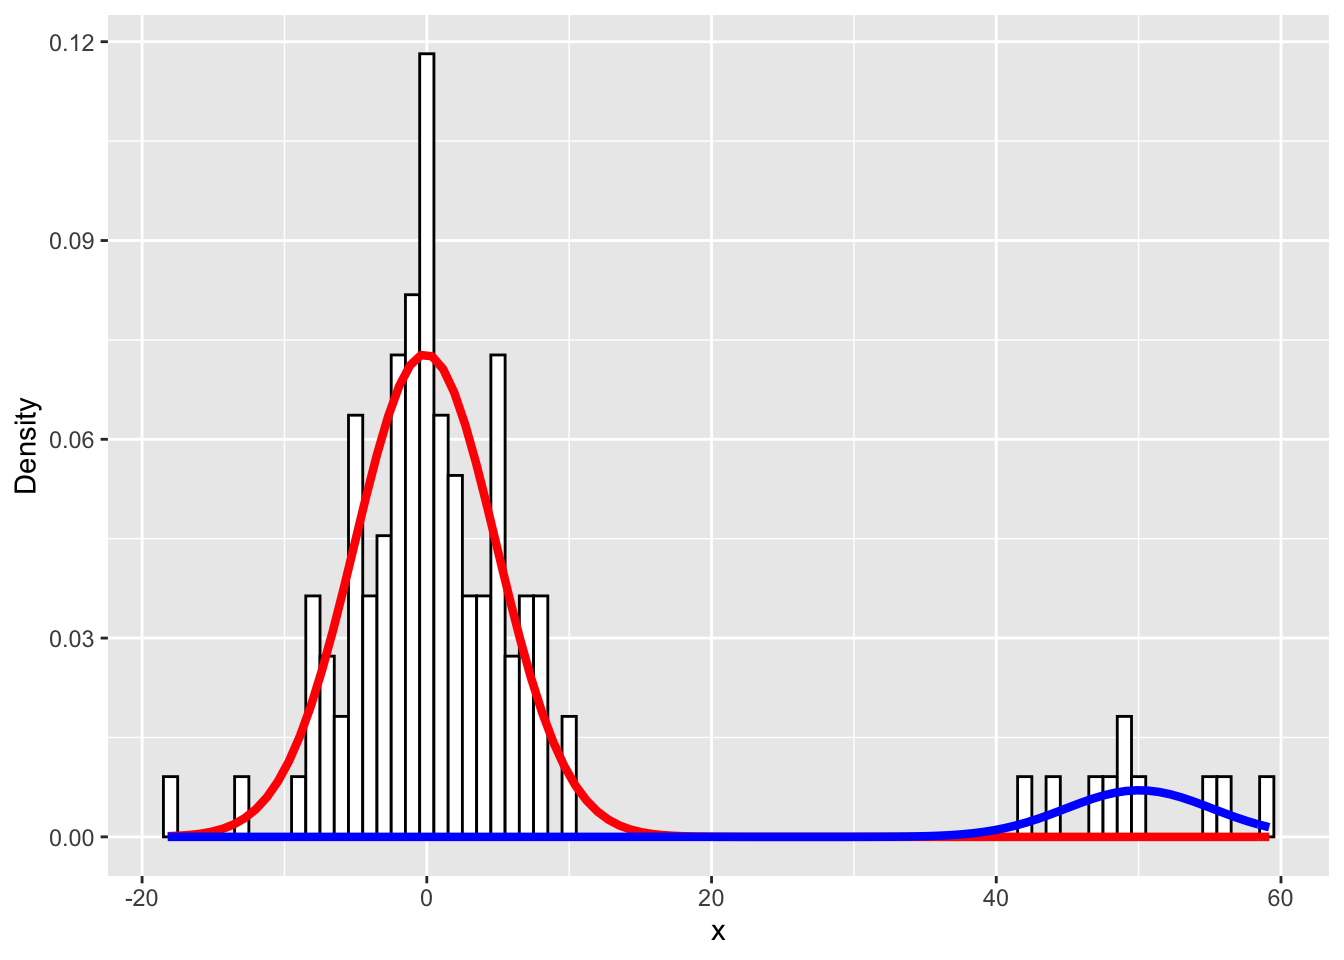
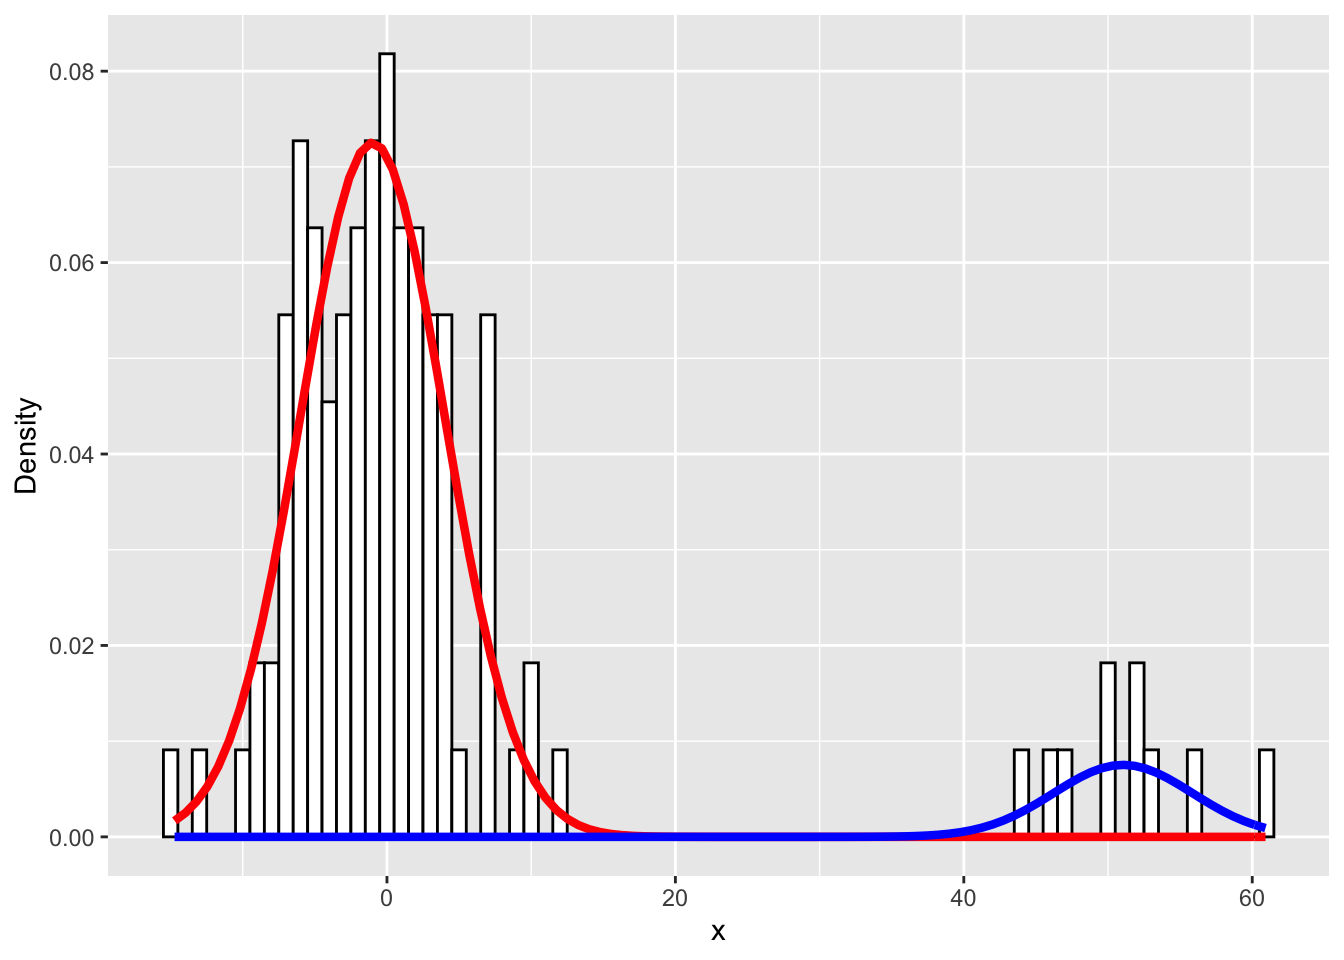
update post

diff --git a/content/cn/post/2019-09-06-flexmix-model.html b/content/cn/post/2019-09-06-flexmix-model.html
@@ -2,7 +2,7 @@
 title: "使用有限混合模型"
 author: "王诗翔"
 date: "2019-09-06"
-lastmod: "2019-09-16"
+lastmod: "2019-09-17"
 slug: ""
 categories: r
 tags:
@@ -58,33 +58,33 @@ flexfit &lt;- flexmix(x ~ 1, data = data, k = 2, model = list(mo1, mo2))</code><
 <h2>查看结果</h2>
 <pre class="r"><code>parameters(flexfit)
 #&gt; [[1]]
-#&gt;                  Comp.1  Comp.2
-#&gt; coef.(Intercept)  50.03 -0.0989
-#&gt; sigma              5.16  4.9787
+#&gt;                  Comp.1 Comp.2
+#&gt; coef.(Intercept)  51.04     -1
+#&gt; sigma              4.82      5
 #&gt; 
 #&gt; [[2]]
-#&gt;                  Comp.1  Comp.2
-#&gt; coef.(Intercept)  50.03 -0.0989
-#&gt; sigma              5.16  4.9787</code></pre>
+#&gt;                  Comp.1 Comp.2
+#&gt; coef.(Intercept)  51.04     -1
+#&gt; sigma              4.82      5</code></pre>
 <p>输出参数：</p>
 <pre class="r"><code>c1 &lt;- parameters(flexfit, component=2)[[1]]
 c2 &lt;- parameters(flexfit, component=1)[[1]]
 
 cat(&#39;pred:&#39;, c1[1], &#39;\n&#39;)
-#&gt; pred: -0.0989
+#&gt; pred: -1
 cat(&#39;true:&#39;, m1, &#39;\n\n&#39;)
 #&gt; true: 0
 cat(&#39;pred:&#39;, c1[2], &#39;\n&#39;)
-#&gt; pred: 4.98
+#&gt; pred: 5
 cat(&#39;true:&#39;, sd1, &#39;\n\n&#39;)
 #&gt; true: 5
 
 cat(&#39;pred:&#39;, c2[1], &#39;\n&#39;)
-#&gt; pred: 50
+#&gt; pred: 51
 cat(&#39;true:&#39;, m2, &#39;\n\n&#39;)
 #&gt; true: 50
 cat(&#39;pred:&#39;, c2[2], &#39;\n&#39;)
-#&gt; pred: 5.16
+#&gt; pred: 4.82
 cat(&#39;true:&#39;, sd2, &#39;\n\n&#39;)
 #&gt; true: 5</code></pre>
 <p>基本能拟合出原始分布。</p>
@@ -124,18 +124,18 @@ ylab(&quot;Density&quot;)</code></pre>
 #&gt;     k = 1:5)
 #&gt; 
 #&gt;   iter converged k k0 logLik AIC BIC ICL
-#&gt; 1    2      TRUE 1  1   -456 915 921 921
-#&gt; 2   15      TRUE 2  2   -366 742 756 756
-#&gt; 3  119      TRUE 2  3   -366 742 756 756
-#&gt; 4   51      TRUE 3  4   -366 748 770 827
-#&gt; 5  132      TRUE 2  5   -366 742 756 756</code></pre>
+#&gt; 1    2      TRUE 1  1   -459 923 928 928
+#&gt; 2   12      TRUE 2  2   -366 742 755 755
+#&gt; 3   55      TRUE 3  3   -366 747 769 864
+#&gt; 4   38      TRUE 4  4   -366 753 783 906
+#&gt; 5  200     FALSE 4  5   -365 753 783 915</code></pre>
 <p>根据 BIC 选择一个最佳的模型：</p>
 <pre class="r"><code>fitBest = getModel(flexfit, which = &quot;BIC&quot;)
 str(fitBest, max.level = 2)
 #&gt; Formal class &#39;flexmix&#39; [package &quot;flexmix&quot;] with 18 slots
 #&gt;   ..@ posterior  :List of 2
 #&gt;   ..@ weights    : NULL
-#&gt;   ..@ iter       : int 15
+#&gt;   ..@ iter       : int 12
 #&gt;   ..@ cluster    : int [1:110] 1 1 1 1 1 1 1 1 1 1 ...
 #&gt;   ..@ logLik     : num -366
 #&gt;   ..@ df         : num 5
@@ -155,9 +155,9 @@ str(fitBest, max.level = 2)
 #&gt;   ..@ k          : int 2</code></pre>
 <p>查看参数：</p>
 <pre class="r"><code>parameters(fitBest)
-#&gt;                   Comp.1 Comp.2
-#&gt; coef.(Intercept) -0.0989  50.03
-#&gt; sigma             4.9787   5.16</code></pre>
+#&gt;                  Comp.1 Comp.2
+#&gt; coef.(Intercept)     -1  51.04
+#&gt; sigma                 5   4.82</code></pre>
 <p>这个我们的输入非常接近，但也存在一个不小的误差：</p>
 <pre class="r"><code>print(paste(m1, sd1))  
 #&gt; [1] &quot;0 5&quot;
@@ -172,14 +172,14 @@ print(paste(m2, sd2))
 
 fit1 &lt;- flexmix(x ~ 1, data = data, k = 2, model = FLXMRglm(family = &quot;gaussian&quot;))
 parameters(fit1)
-#&gt;                  Comp.1  Comp.2
-#&gt; coef.(Intercept)  50.03 -0.0989
-#&gt; sigma              5.16  4.9787</code></pre>
+#&gt;                  Comp.1 Comp.2
+#&gt; coef.(Intercept)  51.04     -1
+#&gt; sigma              4.82      5</code></pre>
 <pre class="r"><code>fit2 &lt;- flexmix(x ~ 1, data = data, k = 2, model = FLXMCnorm1())
 parameters(fit2)
-#&gt;      Comp.1  Comp.2
-#&gt; mean  50.03 -0.0989
-#&gt; sd     5.41  4.9810</code></pre>
+#&gt;      Comp.1 Comp.2
+#&gt; mean  51.04     -1
+#&gt; sd     5.06      5</code></pre>
 <p>使用泊松分布来拟合试试，先生成泊松分布数据：</p>
 <pre class="r"><code>N1 &lt;- 100
 N2 &lt;- 10
@@ -200,6 +200,10 @@ parameters(fit4)
 #&gt;                    3.88                  -28.67</code></pre>
 <p><strong><code>FLXMCmvpois()</code> 显示的是 demo driver，但却比 <code>FLXMRglm(family = &quot;poisson&quot;)</code> 结果准确的多！！</strong></p>
 <p>不能理解这个包的哲学，尽管它看起来是那么的优秀~</p>
+<blockquote>
+<p>更新：2019-09-17</p>
+<p>发现 flexmix 提供的功能大体分为两类，以 FLXMC 开头的是做聚类的，而以 FLXMR 开头的是做回归的。</p>
+</blockquote>
 </div>
 <div class="section level2">
 <h2>能否重复分析？</h2>
@@ -225,9 +229,9 @@ stepfit = stepFlexmix(x ~ 1, data = data, k = 1:5, model = FLXMCmvpois())
 #&gt; 5 : * * *
 fit = getModel(flexfit, which = &quot;BIC&quot;)
 parameters(fit)
-#&gt;                   Comp.1 Comp.2
-#&gt; coef.(Intercept) -0.0989  50.03
-#&gt; sigma             4.9787   5.16</code></pre>
+#&gt;                  Comp.1 Comp.2
+#&gt; coef.(Intercept)     -1  51.04
+#&gt; sigma                 5   4.82</code></pre>
 <pre class="r"><code>set.seed(1234)
 stepfit = stepFlexmix(x ~ 1, data = data, k = 1:5, model = FLXMCmvpois())
 #&gt; 1 : * * *
@@ -237,9 +241,9 @@ stepfit = stepFlexmix(x ~ 1, data = data, k = 1:5, model = FLXMCmvpois())
 #&gt; 5 : * * *
 fit = getModel(flexfit, which = &quot;BIC&quot;)
 parameters(fit)
-#&gt;                   Comp.1 Comp.2
-#&gt; coef.(Intercept) -0.0989  50.03
-#&gt; sigma             4.9787   5.16</code></pre>
+#&gt;                  Comp.1 Comp.2
+#&gt; coef.(Intercept)     -1  51.04
+#&gt; sigma                 5   4.82</code></pre>
 <p>结果显示一致</p>
 <blockquote>
 <p>本文前半部分示例来自《<a href="https://jef.works/blog/2017/08/05/a-practical-introduction-to-finite-mixture-models/">A Practical Introduction To Finite Mixture Models</a>》</p>

diff --git a/docs/cn/post/2019-09-06-flexmix-model/index.html b/docs/cn/post/2019-09-06-flexmix-model/index.html
@@ -176,33 +176,33 @@ flexfit &lt;- flexmix(x ~ 1, data = data, k = 2, model = list(mo1, mo2))</code><
 <h2>查看结果</h2>
 <pre class="r"><code>parameters(flexfit)
 #&gt; [[1]]
-#&gt;                  Comp.1  Comp.2
-#&gt; coef.(Intercept)  50.03 -0.0989
-#&gt; sigma              5.16  4.9787
+#&gt;                  Comp.1 Comp.2
+#&gt; coef.(Intercept)  51.04     -1
+#&gt; sigma              4.82      5
 #&gt; 
 #&gt; [[2]]
-#&gt;                  Comp.1  Comp.2
-#&gt; coef.(Intercept)  50.03 -0.0989
-#&gt; sigma              5.16  4.9787</code></pre>
+#&gt;                  Comp.1 Comp.2
+#&gt; coef.(Intercept)  51.04     -1
+#&gt; sigma              4.82      5</code></pre>
 <p>输出参数：</p>
 <pre class="r"><code>c1 &lt;- parameters(flexfit, component=2)[[1]]
 c2 &lt;- parameters(flexfit, component=1)[[1]]
 
 cat(&#39;pred:&#39;, c1[1], &#39;\n&#39;)
-#&gt; pred: -0.0989
+#&gt; pred: -1
 cat(&#39;true:&#39;, m1, &#39;\n\n&#39;)
 #&gt; true: 0
 cat(&#39;pred:&#39;, c1[2], &#39;\n&#39;)
-#&gt; pred: 4.98
+#&gt; pred: 5
 cat(&#39;true:&#39;, sd1, &#39;\n\n&#39;)
 #&gt; true: 5
 
 cat(&#39;pred:&#39;, c2[1], &#39;\n&#39;)
-#&gt; pred: 50
+#&gt; pred: 51
 cat(&#39;true:&#39;, m2, &#39;\n\n&#39;)
 #&gt; true: 50
 cat(&#39;pred:&#39;, c2[2], &#39;\n&#39;)
-#&gt; pred: 5.16
+#&gt; pred: 4.82
 cat(&#39;true:&#39;, sd2, &#39;\n\n&#39;)
 #&gt; true: 5</code></pre>
 <p>基本能拟合出原始分布。</p>
@@ -242,18 +242,18 @@ ylab(&quot;Density&quot;)</code></pre>
 #&gt;     k = 1:5)
 #&gt; 
 #&gt;   iter converged k k0 logLik AIC BIC ICL
-#&gt; 1    2      TRUE 1  1   -456 915 921 921
-#&gt; 2   15      TRUE 2  2   -366 742 756 756
-#&gt; 3  119      TRUE 2  3   -366 742 756 756
-#&gt; 4   51      TRUE 3  4   -366 748 770 827
-#&gt; 5  132      TRUE 2  5   -366 742 756 756</code></pre>
+#&gt; 1    2      TRUE 1  1   -459 923 928 928
+#&gt; 2   12      TRUE 2  2   -366 742 755 755
+#&gt; 3   55      TRUE 3  3   -366 747 769 864
+#&gt; 4   38      TRUE 4  4   -366 753 783 906
+#&gt; 5  200     FALSE 4  5   -365 753 783 915</code></pre>
 <p>根据 BIC 选择一个最佳的模型：</p>
 <pre class="r"><code>fitBest = getModel(flexfit, which = &quot;BIC&quot;)
 str(fitBest, max.level = 2)
 #&gt; Formal class &#39;flexmix&#39; [package &quot;flexmix&quot;] with 18 slots
 #&gt;   ..@ posterior  :List of 2
 #&gt;   ..@ weights    : NULL
-#&gt;   ..@ iter       : int 15
+#&gt;   ..@ iter       : int 12
 #&gt;   ..@ cluster    : int [1:110] 1 1 1 1 1 1 1 1 1 1 ...
 #&gt;   ..@ logLik     : num -366
 #&gt;   ..@ df         : num 5
@@ -273,9 +273,9 @@ str(fitBest, max.level = 2)
 #&gt;   ..@ k          : int 2</code></pre>
 <p>查看参数：</p>
 <pre class="r"><code>parameters(fitBest)
-#&gt;                   Comp.1 Comp.2
-#&gt; coef.(Intercept) -0.0989  50.03
-#&gt; sigma             4.9787   5.16</code></pre>
+#&gt;                  Comp.1 Comp.2
+#&gt; coef.(Intercept)     -1  51.04
+#&gt; sigma                 5   4.82</code></pre>
 <p>这个我们的输入非常接近，但也存在一个不小的误差：</p>
 <pre class="r"><code>print(paste(m1, sd1))  
 #&gt; [1] &quot;0 5&quot;
@@ -290,14 +290,14 @@ print(paste(m2, sd2))
 
 fit1 &lt;- flexmix(x ~ 1, data = data, k = 2, model = FLXMRglm(family = &quot;gaussian&quot;))
 parameters(fit1)
-#&gt;                  Comp.1  Comp.2
-#&gt; coef.(Intercept)  50.03 -0.0989
-#&gt; sigma              5.16  4.9787</code></pre>
+#&gt;                  Comp.1 Comp.2
+#&gt; coef.(Intercept)  51.04     -1
+#&gt; sigma              4.82      5</code></pre>
 <pre class="r"><code>fit2 &lt;- flexmix(x ~ 1, data = data, k = 2, model = FLXMCnorm1())
 parameters(fit2)
-#&gt;      Comp.1  Comp.2
-#&gt; mean  50.03 -0.0989
-#&gt; sd     5.41  4.9810</code></pre>
+#&gt;      Comp.1 Comp.2
+#&gt; mean  51.04     -1
+#&gt; sd     5.06      5</code></pre>
 <p>使用泊松分布来拟合试试，先生成泊松分布数据：</p>
 <pre class="r"><code>N1 &lt;- 100
 N2 &lt;- 10
@@ -318,6 +318,10 @@ parameters(fit4)
 #&gt;                    3.88                  -28.67</code></pre>
 <p><strong><code>FLXMCmvpois()</code> 显示的是 demo driver，但却比 <code>FLXMRglm(family = &quot;poisson&quot;)</code> 结果准确的多！！</strong></p>
 <p>不能理解这个包的哲学，尽管它看起来是那么的优秀~</p>
+<blockquote>
+<p>更新：2019-09-17</p>
+<p>发现 flexmix 提供的功能大体分为两类，以 FLXMC 开头的是做聚类的，而以 FLXMR 开头的是做回归的。</p>
+</blockquote>
 </div>
 <div class="section level2">
 <h2>能否重复分析？</h2>
@@ -343,9 +347,9 @@ stepfit = stepFlexmix(x ~ 1, data = data, k = 1:5, model = FLXMCmvpois())
 #&gt; 5 : * * *
 fit = getModel(flexfit, which = &quot;BIC&quot;)
 parameters(fit)
-#&gt;                   Comp.1 Comp.2
-#&gt; coef.(Intercept) -0.0989  50.03
-#&gt; sigma             4.9787   5.16</code></pre>
+#&gt;                  Comp.1 Comp.2
+#&gt; coef.(Intercept)     -1  51.04
+#&gt; sigma                 5   4.82</code></pre>
 <pre class="r"><code>set.seed(1234)
 stepfit = stepFlexmix(x ~ 1, data = data, k = 1:5, model = FLXMCmvpois())
 #&gt; 1 : * * *
@@ -355,9 +359,9 @@ stepfit = stepFlexmix(x ~ 1, data = data, k = 1:5, model = FLXMCmvpois())
 #&gt; 5 : * * *
 fit = getModel(flexfit, which = &quot;BIC&quot;)
 parameters(fit)
-#&gt;                   Comp.1 Comp.2
-#&gt; coef.(Intercept) -0.0989  50.03
-#&gt; sigma             4.9787   5.16</code></pre>
+#&gt;                  Comp.1 Comp.2
+#&gt; coef.(Intercept)     -1  51.04
+#&gt; sigma                 5   4.82</code></pre>
 <p>结果显示一致</p>
 <blockquote>
 <p>本文前半部分示例来自《<a href="https://jef.works/blog/2017/08/05/a-practical-introduction-to-finite-mixture-models/">A Practical Introduction To Finite Mixture Models</a>》</p>

diff --git a/docs/index.html b/docs/index.html
@@ -161,7 +161,7 @@
  <ul>
   
   <li>
-    <span class="date">2019/09/16</span>
+    <span class="date">2019/09/17</span>
     <a href="./cn/post/2019-09-06-flexmix-model/">使用有限混合模型</a>
   </li>
   
